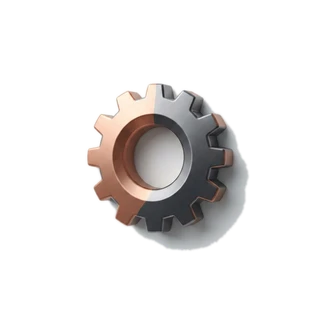
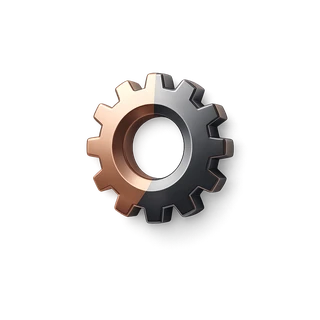
Add files via upload

Changed region(s): [[0.25, 0.2188, 0.7812, 0.7812]]

diff --git a/index.html b/index.html
@@ -868,7 +868,7 @@ gtag('consent', 'default', {
         </div>
         <div class="approach-card" style="background:#fff;border:1px solid rgba(22,18,14,.07);border-radius:18px;padding:28px;position:relative;box-shadow:0 1px 2px rgba(22,18,14,.04),0 14px 34px rgba(22,18,14,.04)">
           <div style="font-family:'Space Grotesk',sans-serif;font-size:13px;font-weight:700;color:#F2670F;letter-spacing:.04em">STEP 03</div>
-          <img src="icon-action-plan.webp?v=2" alt="" width="150" height="150" style="width:150px;height:150px;object-fit:cover;border-radius:16px;margin:0 0 0 auto;display:block">
+          <img src="icon-action-plan.webp?v=3" alt="" width="150" height="150" style="width:150px;height:150px;object-fit:cover;border-radius:16px;margin:0 0 0 auto;display:block">
           <h3 style="font-family:'Space Grotesk',sans-serif;font-size:20px;font-weight:600;margin:18px 0 0">Action Plan</h3>
           <p style="font-size:14px;line-height:1.55;color:#6B6258;margin:8px 0 0">You get prioritized steps for store, products, feed and campaigns.</p>
         </div>